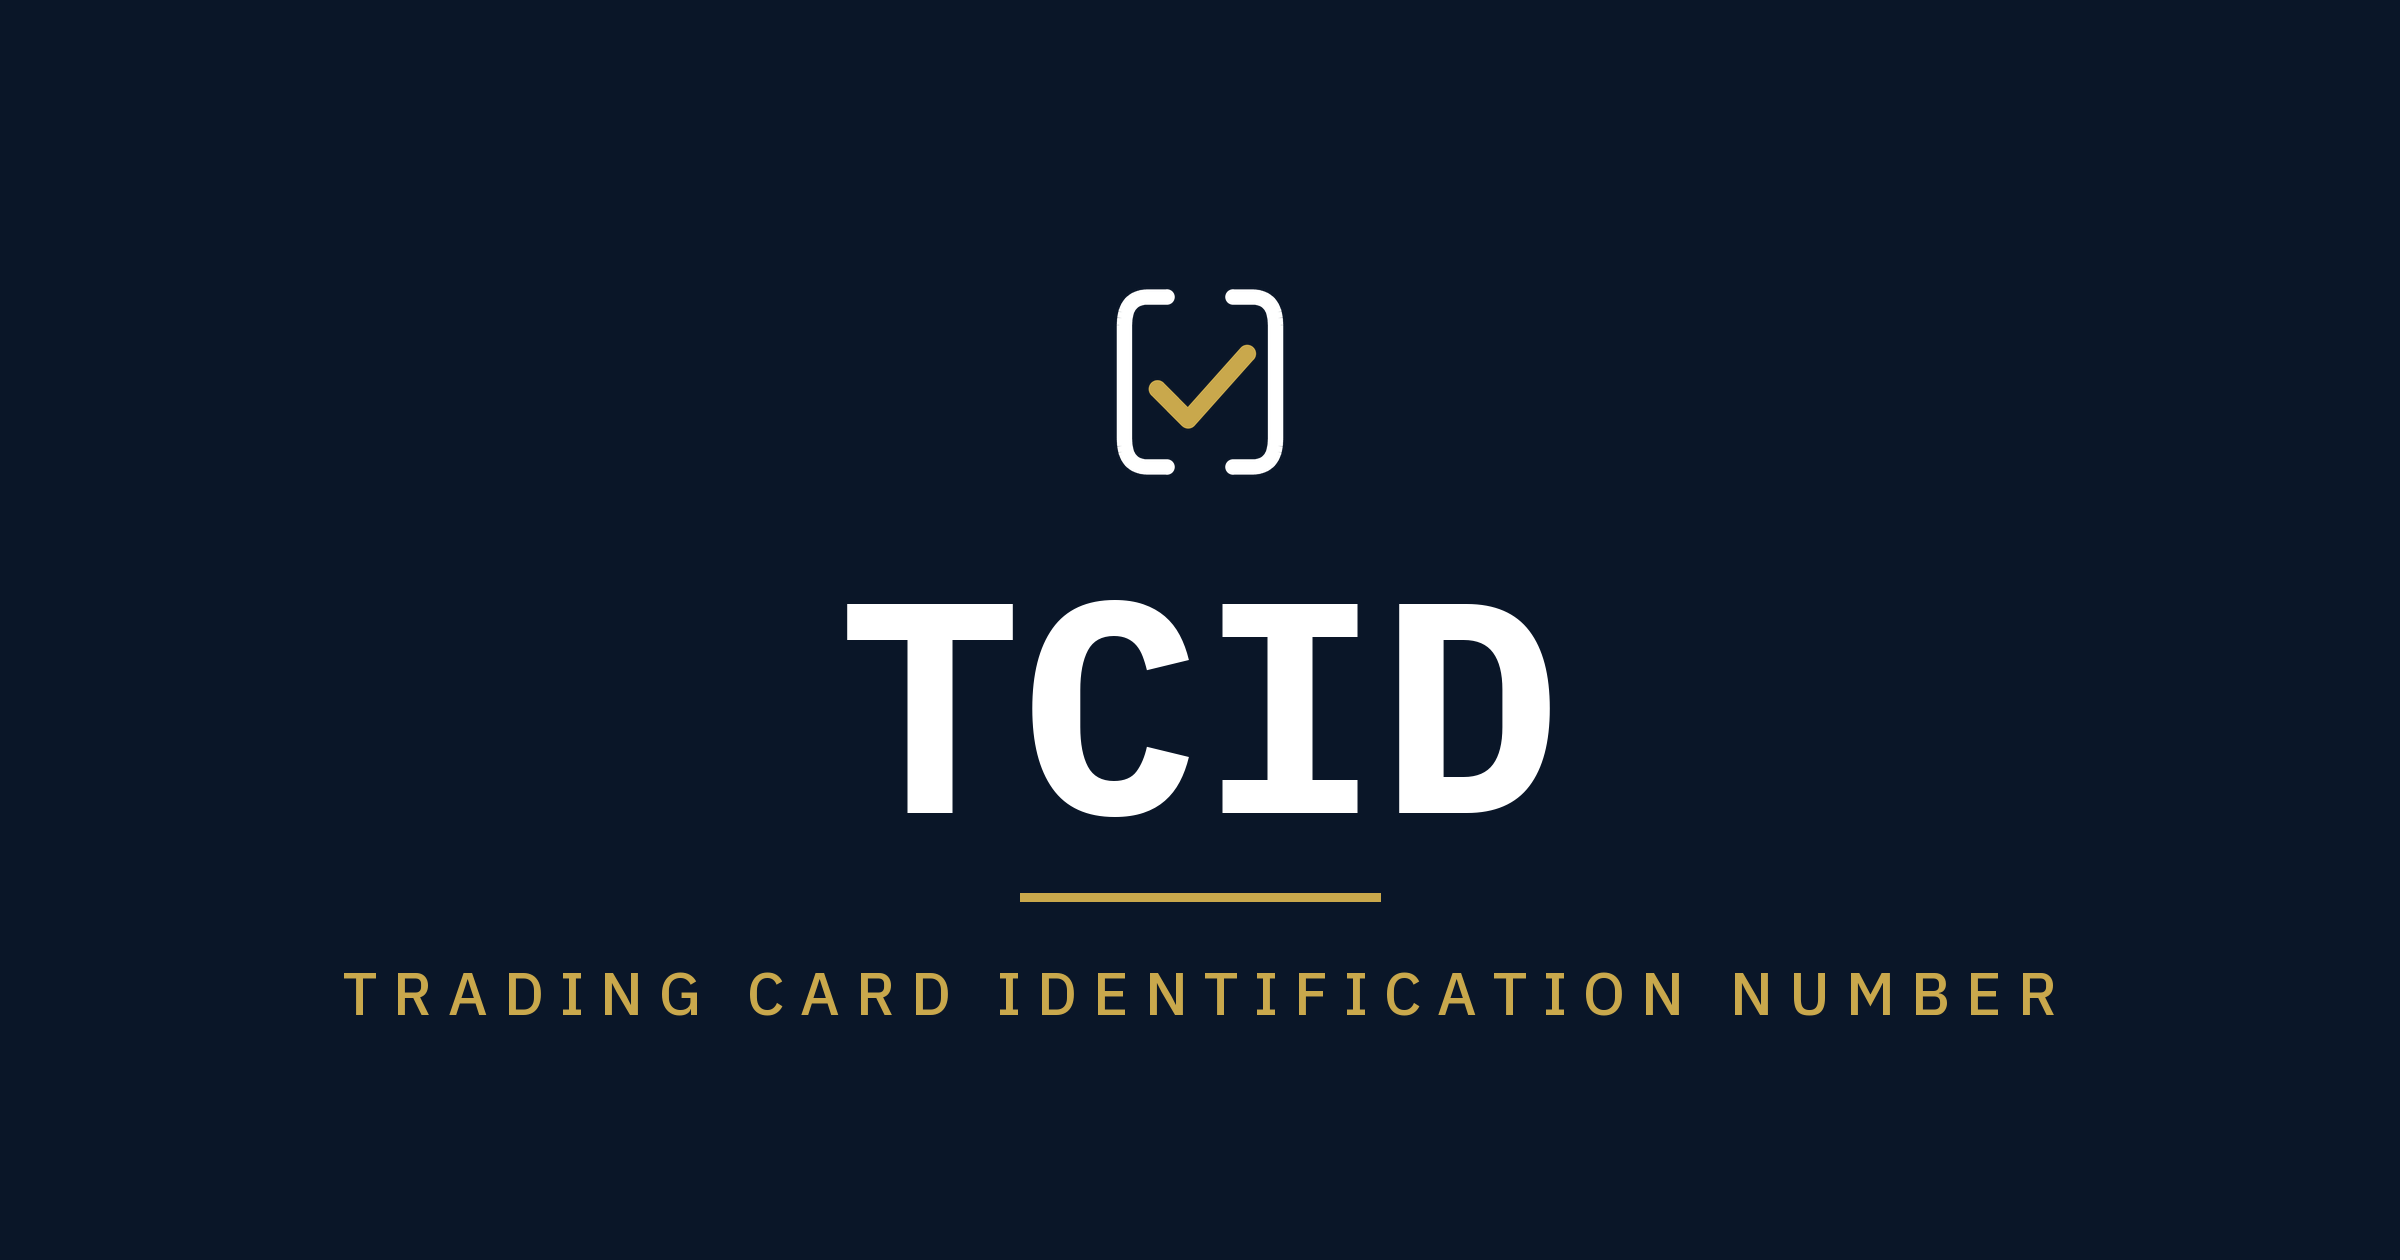
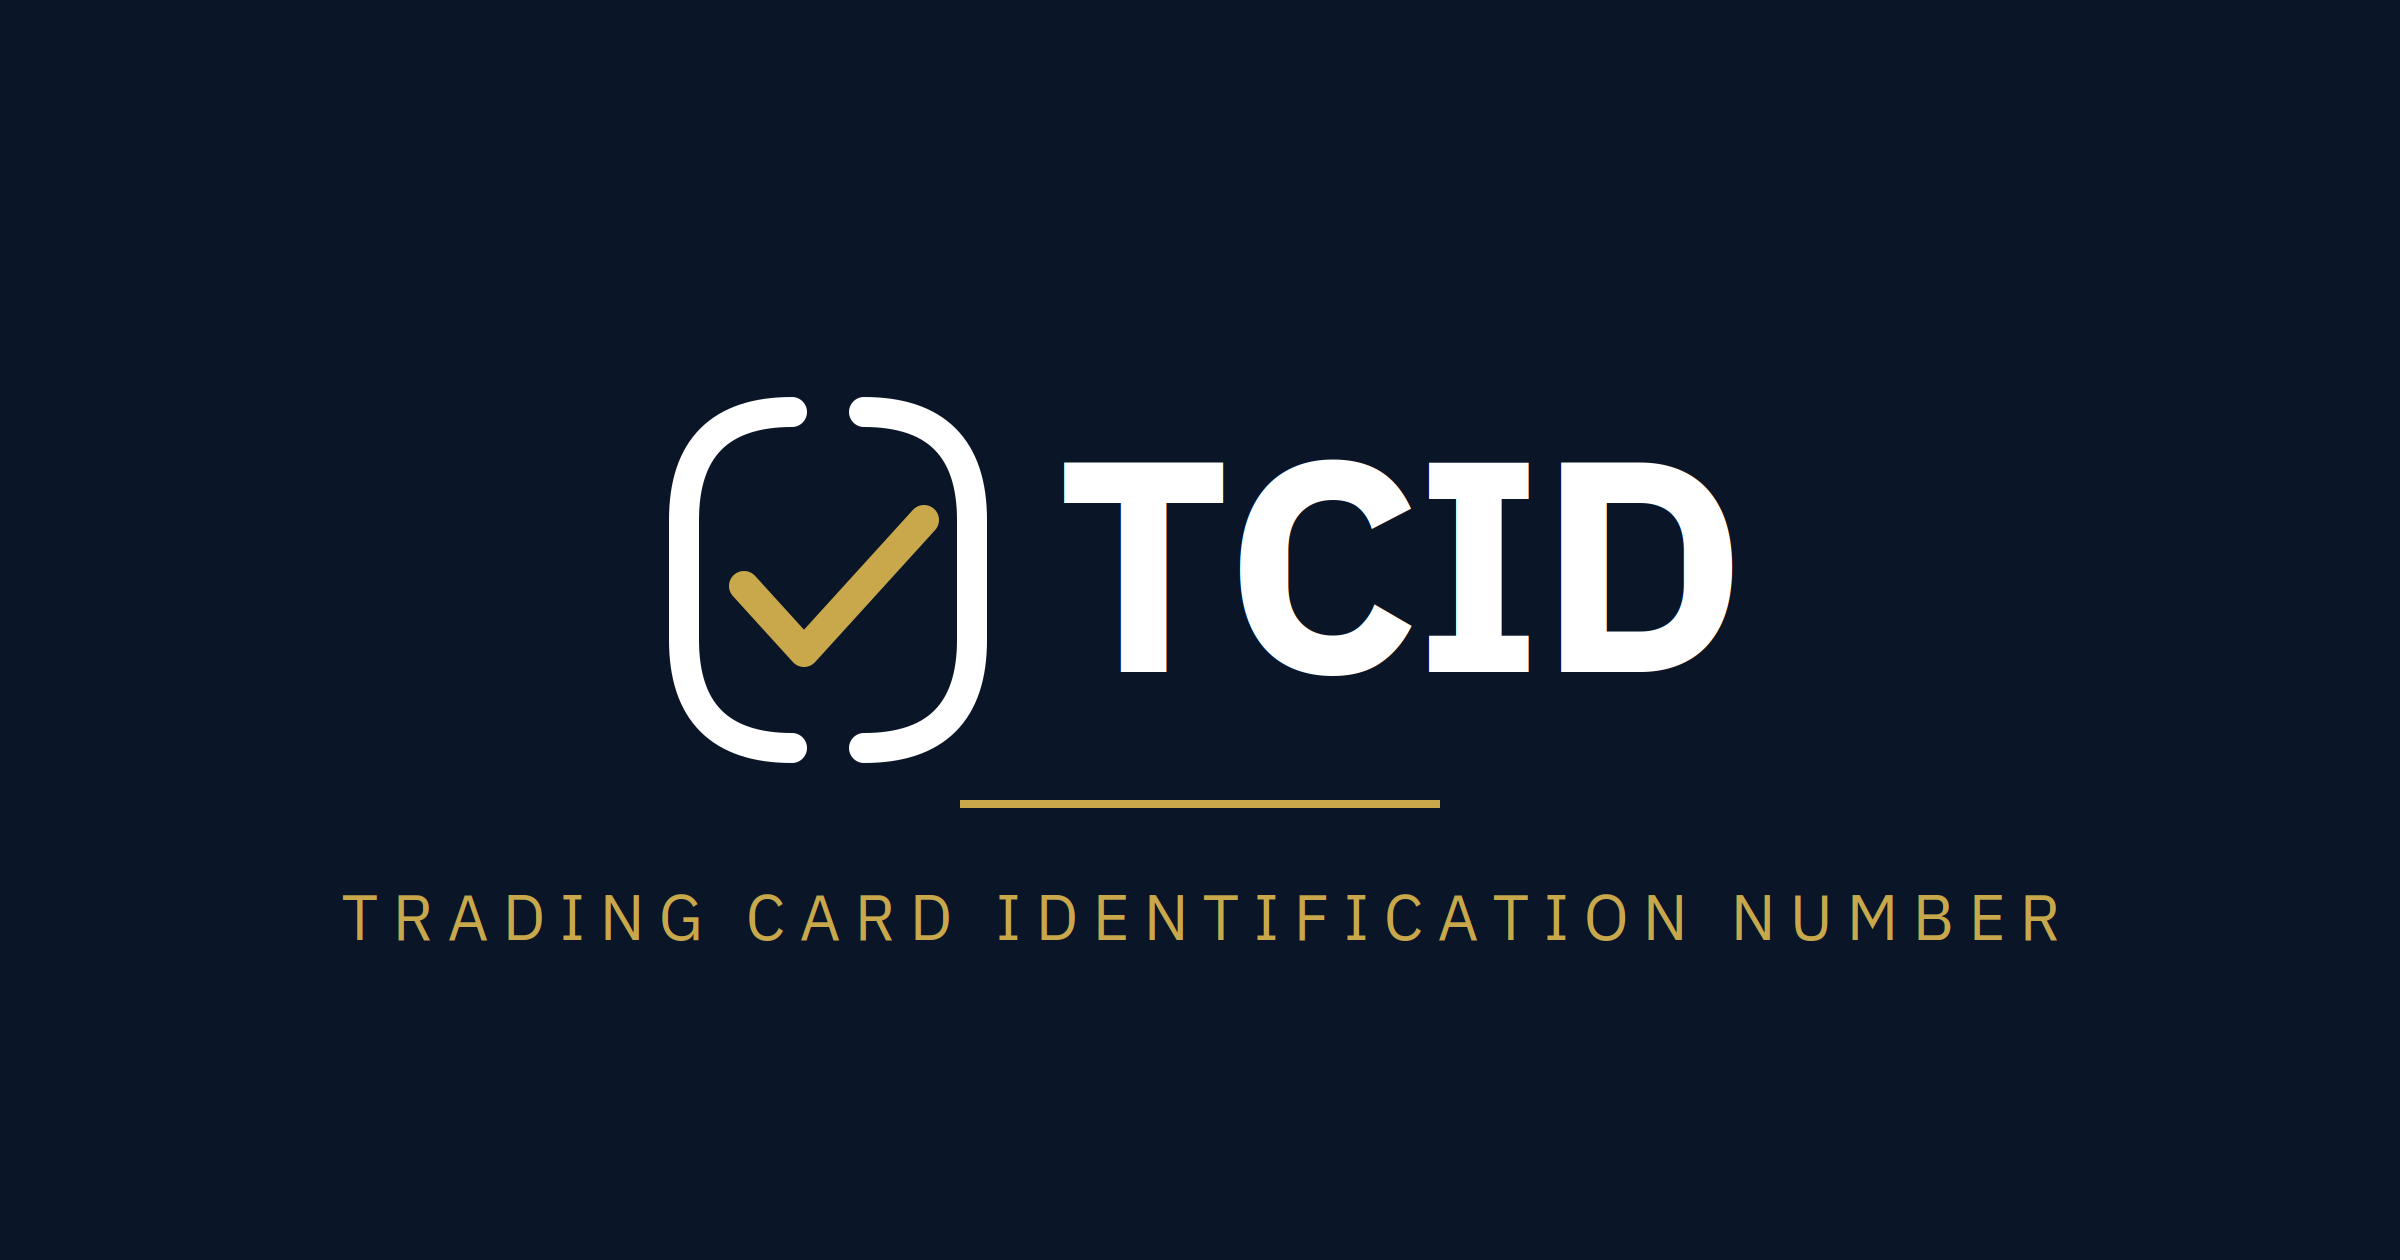
Update OG share image and bump cache version to v=3
Replace tcid-og-image.png with the new card design and bump the og:image
and twitter:image cache-buster from v=2 to v=3 across all pages so social
platforms re-scrape the new image.

Changed region(s): [[0.2812, 0.2167, 0.75, 0.65], [0.125, 0.7738, 0.875, 0.8048], [0.125, 0.7119, 0.875, 0.7429]]

diff --git a/press/ctca-partnership.html b/press/ctca-partnership.html
@@ -5,13 +5,13 @@
   <meta name="viewport" content="width=device-width, initial-scale=1.0">
   <meta property="og:title" content="CTCA and TCID Announce Strategic Partnership">
   <meta property="og:description" content="A neutral, permanent identifier standard for trading cards. Free to reference. Governed by a nonprofit.">
-  <meta property="og:image" content="https://tradingcardid.org/images/tcid-og-image.png?v=2">
+  <meta property="og:image" content="https://tradingcardid.org/images/tcid-og-image.png?v=3">
   <meta property="og:type" content="website">
   <meta property="og:url" content="https://tradingcardid.org/press/ctca-partnership.html">
   <meta name="twitter:card" content="summary_large_image">
   <meta name="twitter:title" content="CTCA and TCID Announce Strategic Partnership">
   <meta name="twitter:description" content="Certified Trading Card Association and TCID announce a strategic partnership to collaborate on standards, transparency, and foundational hobby infrastructure.">
-  <meta name="twitter:image" content="https://tradingcardid.org/images/tcid-og-image.png?v=2">
+  <meta name="twitter:image" content="https://tradingcardid.org/images/tcid-og-image.png?v=3">
   <title>TCID and CTCA Announce Strategic Partnership to Help Build a Safer, Smarter, Stronger Hobby Ecosystem</title>
   <link rel="preconnect" href="https://fonts.googleapis.com">
   <link href="https://fonts.googleapis.com/css2?family=IBM+Plex+Mono:wght@400;500;600&family=IBM+Plex+Sans:wght@300;400;500;600&family=IBM+Plex+Serif:wght@300;400&display=swap" rel="stylesheet">

diff --git a/index.html b/index.html
@@ -5,13 +5,13 @@
   <meta name="viewport" content="width=device-width, initial-scale=1.0">
   <meta property="og:title" content="TCID | Trading Card Identification Number">
   <meta property="og:description" content="A neutral, permanent identifier standard for trading cards. Free to reference. Governed by a nonprofit.">
-  <meta property="og:image" content="https://tradingcardid.org/images/tcid-og-image.png?v=2">
+  <meta property="og:image" content="https://tradingcardid.org/images/tcid-og-image.png?v=3">
   <meta property="og:type" content="website">
   <meta property="og:url" content="https://tradingcardid.org">
   <meta name="twitter:card" content="summary_large_image">
   <meta name="twitter:title" content="TCID | Trading Card Identification Number">
   <meta name="twitter:description" content="TCID is an open registry standard that assigns a stable, permanent identifier to every distinct trading card, so platforms, insurers, graders, and collectors can speak the same language.">
-  <meta name="twitter:image" content="https://tradingcardid.org/images/tcid-og-image.png?v=2">
+  <meta name="twitter:image" content="https://tradingcardid.org/images/tcid-og-image.png?v=3">
   <title>TCID — Trading Card Identification Number</title>
   <link rel="preconnect" href="https://fonts.googleapis.com">
   <link href="https://fonts.googleapis.com/css2?family=IBM+Plex+Mono:wght@400;500;600&family=IBM+Plex+Sans:wght@300;400;500;600&family=IBM+Plex+Serif:wght@300;400&display=swap" rel="stylesheet">

diff --git a/api.html b/api.html
@@ -5,13 +5,13 @@
   <meta name="viewport" content="width=device-width, initial-scale=1.0">
   <meta property="og:title" content="API Documentation | TCID Registry">
   <meta property="og:description" content="A neutral, permanent identifier standard for trading cards. Free to reference. Governed by a nonprofit.">
-  <meta property="og:image" content="https://tradingcardid.org/images/tcid-og-image.png?v=2">
+  <meta property="og:image" content="https://tradingcardid.org/images/tcid-og-image.png?v=3">
   <meta property="og:type" content="website">
   <meta property="og:url" content="https://tradingcardid.org/api.html">
   <meta name="twitter:card" content="summary_large_image">
   <meta name="twitter:title" content="API Documentation | TCID Registry">
   <meta name="twitter:description" content="The TCID Registry API provides programmatic access to permanent trading card identifiers, with lookup and search endpoints and tiered access for commercial integrations.">
-  <meta name="twitter:image" content="https://tradingcardid.org/images/tcid-og-image.png?v=2">
+  <meta name="twitter:image" content="https://tradingcardid.org/images/tcid-og-image.png?v=3">
   <title>API Documentation — TCID</title>
   <link rel="preconnect" href="https://fonts.googleapis.com">
   <link href="https://fonts.googleapis.com/css2?family=IBM+Plex+Mono:wght@400;500;600&family=IBM+Plex+Sans:wght@300;400;500;600&family=IBM+Plex+Serif:wght@300;400&display=swap" rel="stylesheet">

diff --git a/tools.html b/tools.html
@@ -5,13 +5,13 @@
   <meta name="viewport" content="width=device-width, initial-scale=1.0">
   <meta property="og:title" content="Tools | TCID Registry">
   <meta property="og:description" content="A neutral, permanent identifier standard for trading cards. Free to reference. Governed by a nonprofit.">
-  <meta property="og:image" content="https://tradingcardid.org/images/tcid-og-image.png?v=2">
+  <meta property="og:image" content="https://tradingcardid.org/images/tcid-og-image.png?v=3">
   <meta property="og:type" content="website">
   <meta property="og:url" content="https://tradingcardid.org/tools.html">
   <meta name="twitter:card" content="summary_large_image">
   <meta name="twitter:title" content="Tools | TCID Registry">
   <meta name="twitter:description" content="Practical tools for dealers, platforms, and insurers to map inventory to TCID, including the Excel template, registry lookup, and AI-assisted mapping service.">
-  <meta name="twitter:image" content="https://tradingcardid.org/images/tcid-og-image.png?v=2">
+  <meta name="twitter:image" content="https://tradingcardid.org/images/tcid-og-image.png?v=3">
   <title>Tools — TCID Registry</title>
   <link rel="preconnect" href="https://fonts.googleapis.com">
   <link href="https://fonts.googleapis.com/css2?family=IBM+Plex+Mono:wght@400;500;600&family=IBM+Plex+Sans:wght@300;400;500;600&family=IBM+Plex+Serif:wght@300;400&display=swap" rel="stylesheet">

diff --git a/lookup.html b/lookup.html
@@ -5,13 +5,13 @@
   <meta name="viewport" content="width=device-width, initial-scale=1.0">
   <meta property="og:title" content="Card Lookup | TCID Registry">
   <meta property="og:description" content="A neutral, permanent identifier standard for trading cards. Free to reference. Governed by a nonprofit.">
-  <meta property="og:image" content="https://tradingcardid.org/images/tcid-og-image.png?v=2">
+  <meta property="og:image" content="https://tradingcardid.org/images/tcid-og-image.png?v=3">
   <meta property="og:type" content="website">
   <meta property="og:url" content="https://tradingcardid.org/lookup.html">
   <meta name="twitter:card" content="summary_large_image">
   <meta name="twitter:title" content="Card Lookup | TCID Registry">
   <meta name="twitter:description" content="Search the TCID registry by player name, card number, or identifier to find the unique permanent TCID for any card. Free for all users.">
-  <meta name="twitter:image" content="https://tradingcardid.org/images/tcid-og-image.png?v=2">
+  <meta name="twitter:image" content="https://tradingcardid.org/images/tcid-og-image.png?v=3">
   <title>Card Lookup — TCID</title>
   <link rel="preconnect" href="https://fonts.googleapis.com">
   <link href="https://fonts.googleapis.com/css2?family=IBM+Plex+Mono:wght@400;500;600&family=IBM+Plex+Sans:wght@300;400;500;600&family=IBM+Plex+Serif:wght@300;400&display=swap" rel="stylesheet">

diff --git a/about.html b/about.html
@@ -5,13 +5,13 @@
   <meta name="viewport" content="width=device-width, initial-scale=1.0">
   <meta property="og:title" content="About | TCID">
   <meta property="og:description" content="A neutral, permanent identifier standard for trading cards. Free to reference. Governed by a nonprofit.">
-  <meta property="og:image" content="https://tradingcardid.org/images/tcid-og-image.png?v=2">
+  <meta property="og:image" content="https://tradingcardid.org/images/tcid-og-image.png?v=3">
   <meta property="og:type" content="website">
   <meta property="og:url" content="https://tradingcardid.org/about.html">
   <meta name="twitter:card" content="summary_large_image">
   <meta name="twitter:title" content="About | TCID">
   <meta name="twitter:description" content="How TCID works, the problem it solves, its three-layer identity model, and the neutral standards body that governs the identifier.">
-  <meta name="twitter:image" content="https://tradingcardid.org/images/tcid-og-image.png?v=2">
+  <meta name="twitter:image" content="https://tradingcardid.org/images/tcid-og-image.png?v=3">
   <title>About TCID - Trading Card Identification Number</title>
   <link rel="preconnect" href="https://fonts.googleapis.com">
   <link href="https://fonts.googleapis.com/css2?family=IBM+Plex+Mono:wght@400;500;600&family=IBM+Plex+Sans:wght@300;400;500;600&family=IBM+Plex+Serif:wght@300;400&display=swap" rel="stylesheet">

diff --git a/coalition.html b/coalition.html
@@ -5,13 +5,13 @@
   <meta name="viewport" content="width=device-width, initial-scale=1.0">
   <meta property="og:title" content="Coalition | TCID">
   <meta property="og:description" content="A neutral, permanent identifier standard for trading cards. Free to reference. Governed by a nonprofit.">
-  <meta property="og:image" content="https://tradingcardid.org/images/tcid-og-image.png?v=2">
+  <meta property="og:image" content="https://tradingcardid.org/images/tcid-og-image.png?v=3">
   <meta property="og:type" content="website">
   <meta property="og:url" content="https://tradingcardid.org/coalition.html">
   <meta name="twitter:card" content="summary_large_image">
   <meta name="twitter:title" content="Coalition | TCID">
   <meta name="twitter:description" content="Practitioners, organizations, and publications backing the TCID standard, including the CTCA strategic partnership and letters of support.">
-  <meta name="twitter:image" content="https://tradingcardid.org/images/tcid-og-image.png?v=2">
+  <meta name="twitter:image" content="https://tradingcardid.org/images/tcid-og-image.png?v=3">
   <title>Coalition | TCID</title>
   <link rel="preconnect" href="https://fonts.googleapis.com">
   <link href="https://fonts.googleapis.com/css2?family=IBM+Plex+Mono:wght@400;500;600&family=IBM+Plex+Sans:wght@300;400;500;600&family=IBM+Plex+Serif:wght@300;400&display=swap" rel="stylesheet">
